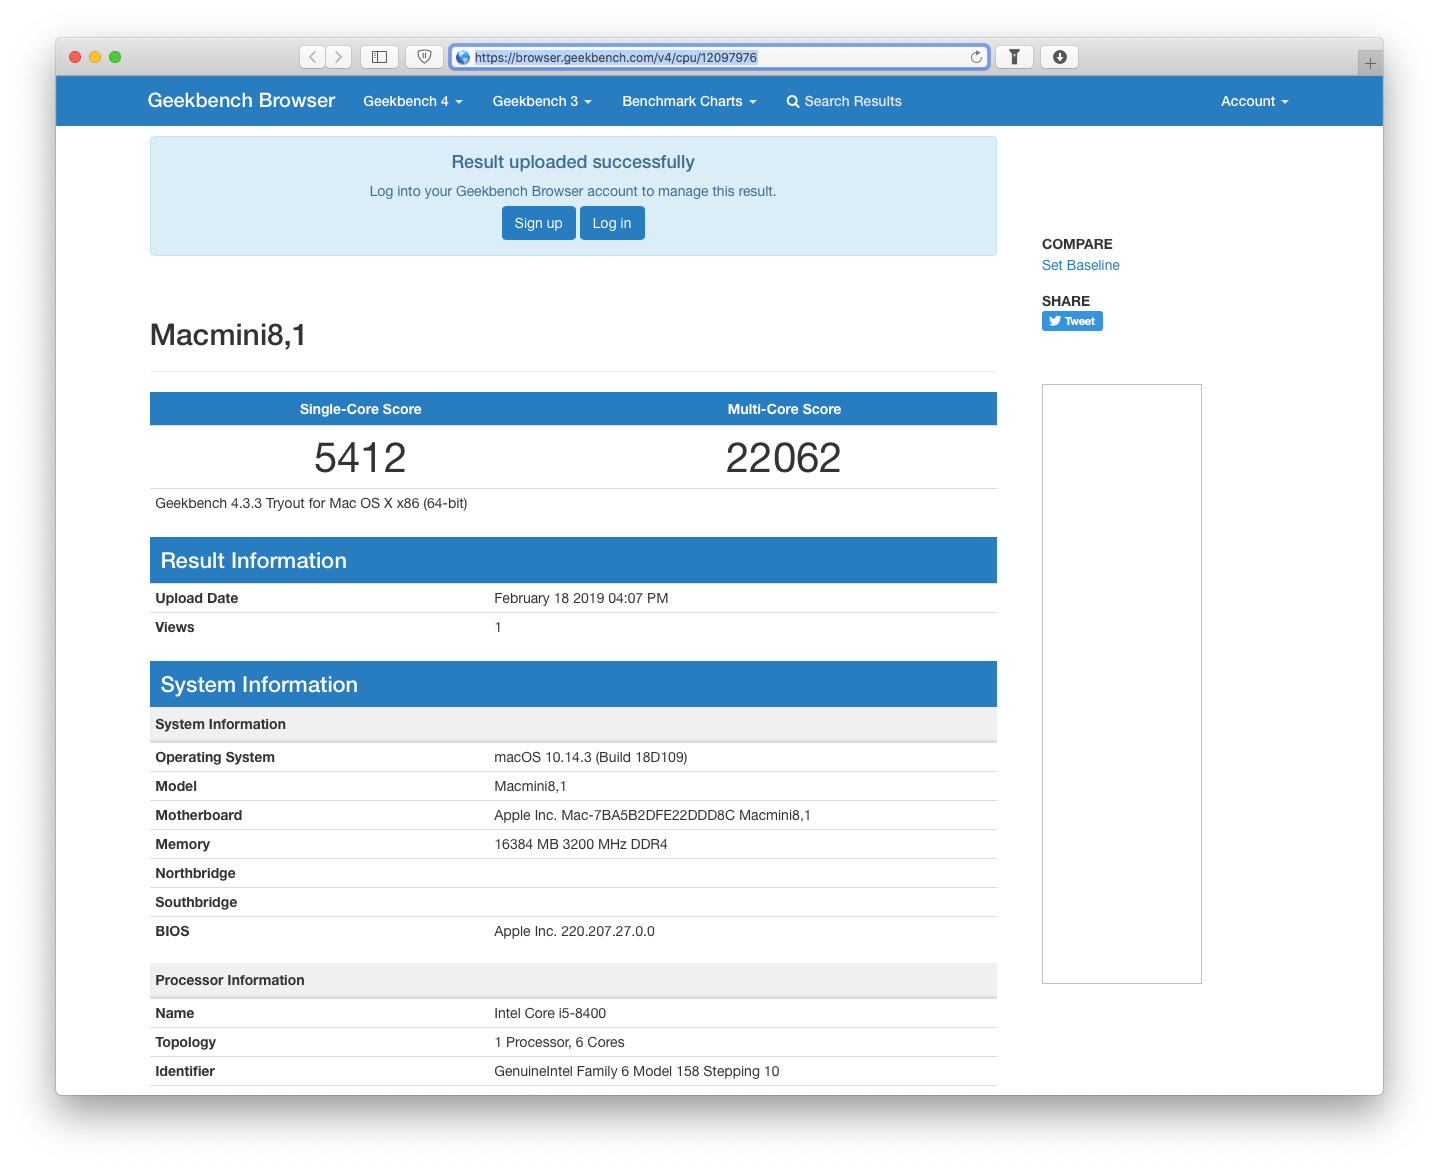
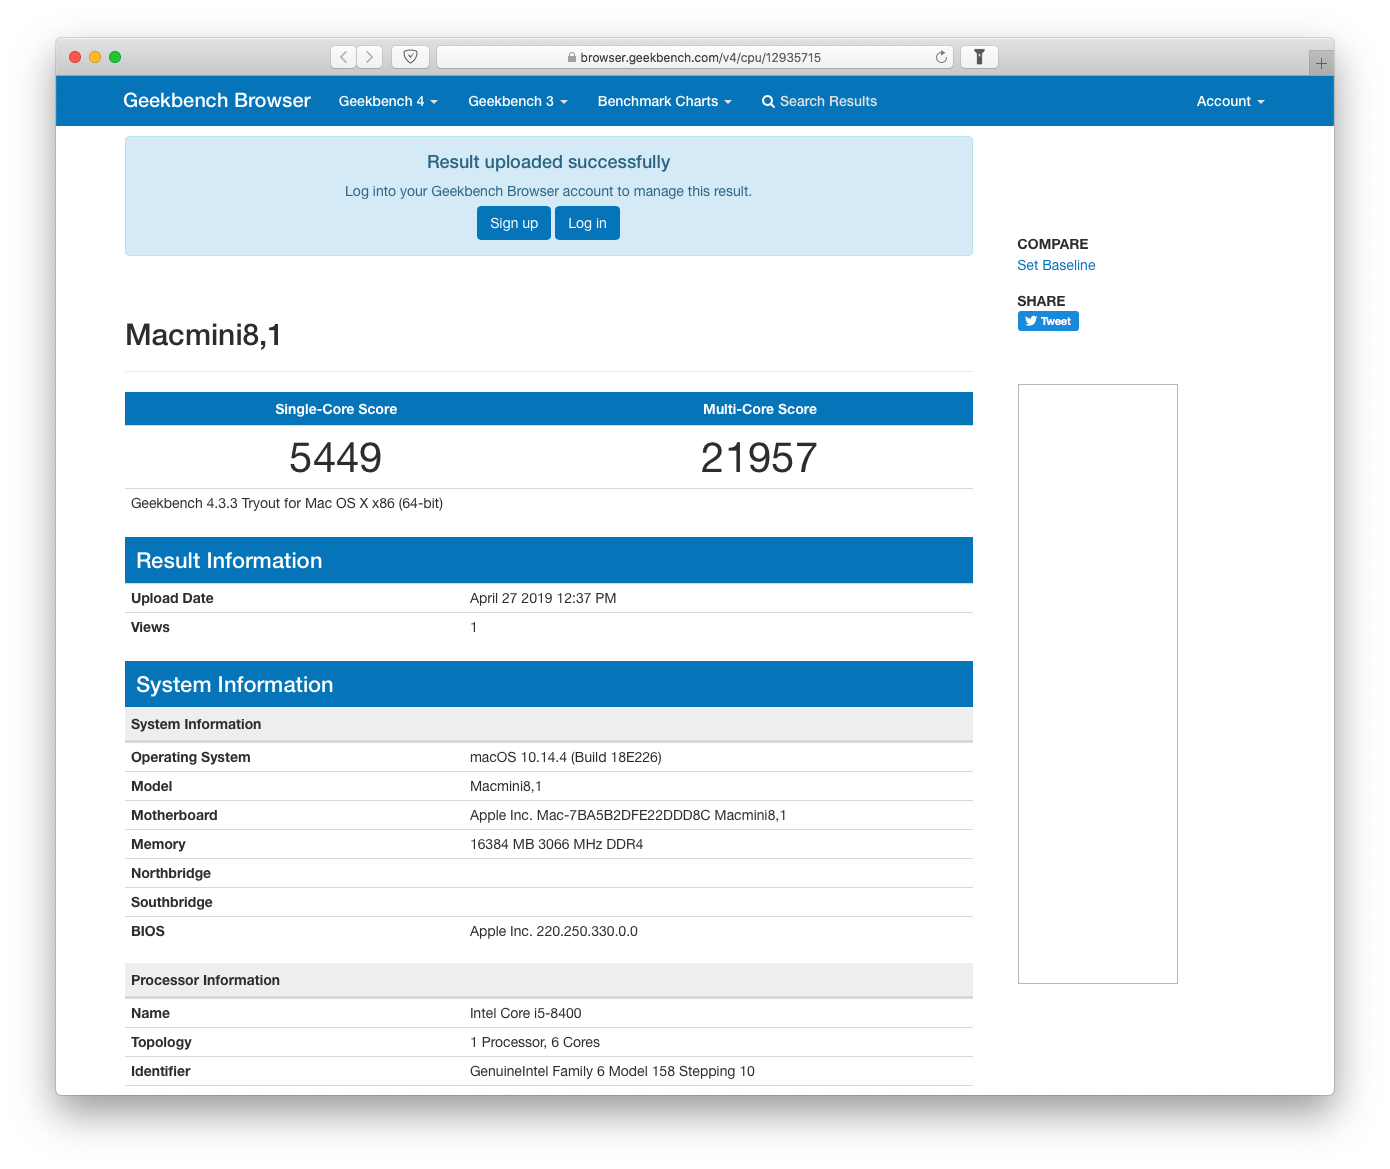
downclocked to 3066Mhz, added BIOS settings

diff --git a/README.md b/README.md
@@ -6,13 +6,15 @@ I built my Hackintosh because I was disappointed with the price of the new Mac M
 
 - MacOS Mojave 10.14.4
 - Intel i5-8400 (6 cores @ 2.80 Ghz, 3.80 Ghz Turbo Boost)
-- Gigabyte Z370 HD3P
-- Corsair Vengeance LPX 16Gb (2x8Gb) DDR4 2666MHz OC @ 3200Mhz
+- Gigabyte Z370-HD3P
+- Corsair Vengeance LPX 16Gb (2x8Gb) DDR4 2666MHz OC @ 3066 Mhz (CMK16GX4M2A2666C16)
 - EVGA 600 W1, 80+ WHITE 600W
 - SSD SAMSUNG 830 Series 256 Gb
 - Various old HDDs
 - Apple Wired Keyboard
 - Random mouse
+- M-Audio Fast Track Pro
+- Yamaha HS5
 - Random 24" 1080p monitor
 
 ## Installation
@@ -23,10 +25,14 @@ You can basically download the config file provided at the end of the page (or m
 
 The only thing you need to generate by yourself if you use my EFI folder is your serial. You can use [macserial](https://github.com/acidanthera/macserial) to generate serials for the model you picked (I chose Macmini8,1 because my config is similar to the new Mac Mini model).
 
+## BIOS
+
+You can find my BIOS Settings as pictures in [this folder](BIOS).
+
 ## Benchmarks
 
 ![Geekbench](https://raw.githubusercontent.com/kinoute/Hack-Z370-HD3P-i5-8400/master/Pictures/geekbench.png)
 
-Link: [https://browser.geekbench.com/v4/cpu/12097976](https://browser.geekbench.com/v4/cpu/12097976)
+Link: https://browser.geekbench.com/v4/cpu/12935715
 
 

diff --git a/BIOS/README.md b/BIOS/README.md
@@ -1,0 +1,11 @@
+# BIOS
+
+**Version:** F8
+
+You can see my different settings in the BIOS with the pictures provided in this folder.
+
+## RAM Settings
+
+DON'T use my RAM settings unless you have the same RAM model. I played with the settings to try different overclocking scenarios and couldn't get a pleasant experience running the RAM at 3200Mhz with a 1.35V DRAM Voltage. Therefore, I rollbacked to 3066Mhz which is fine for now.
+
+If you get freezes on your Mac (like system still running in the background but keyboard & mouse get unresponsive for a few seconds/minutes), it is most likely due to the overclocking settings of your RAM. At least it was in my case.
